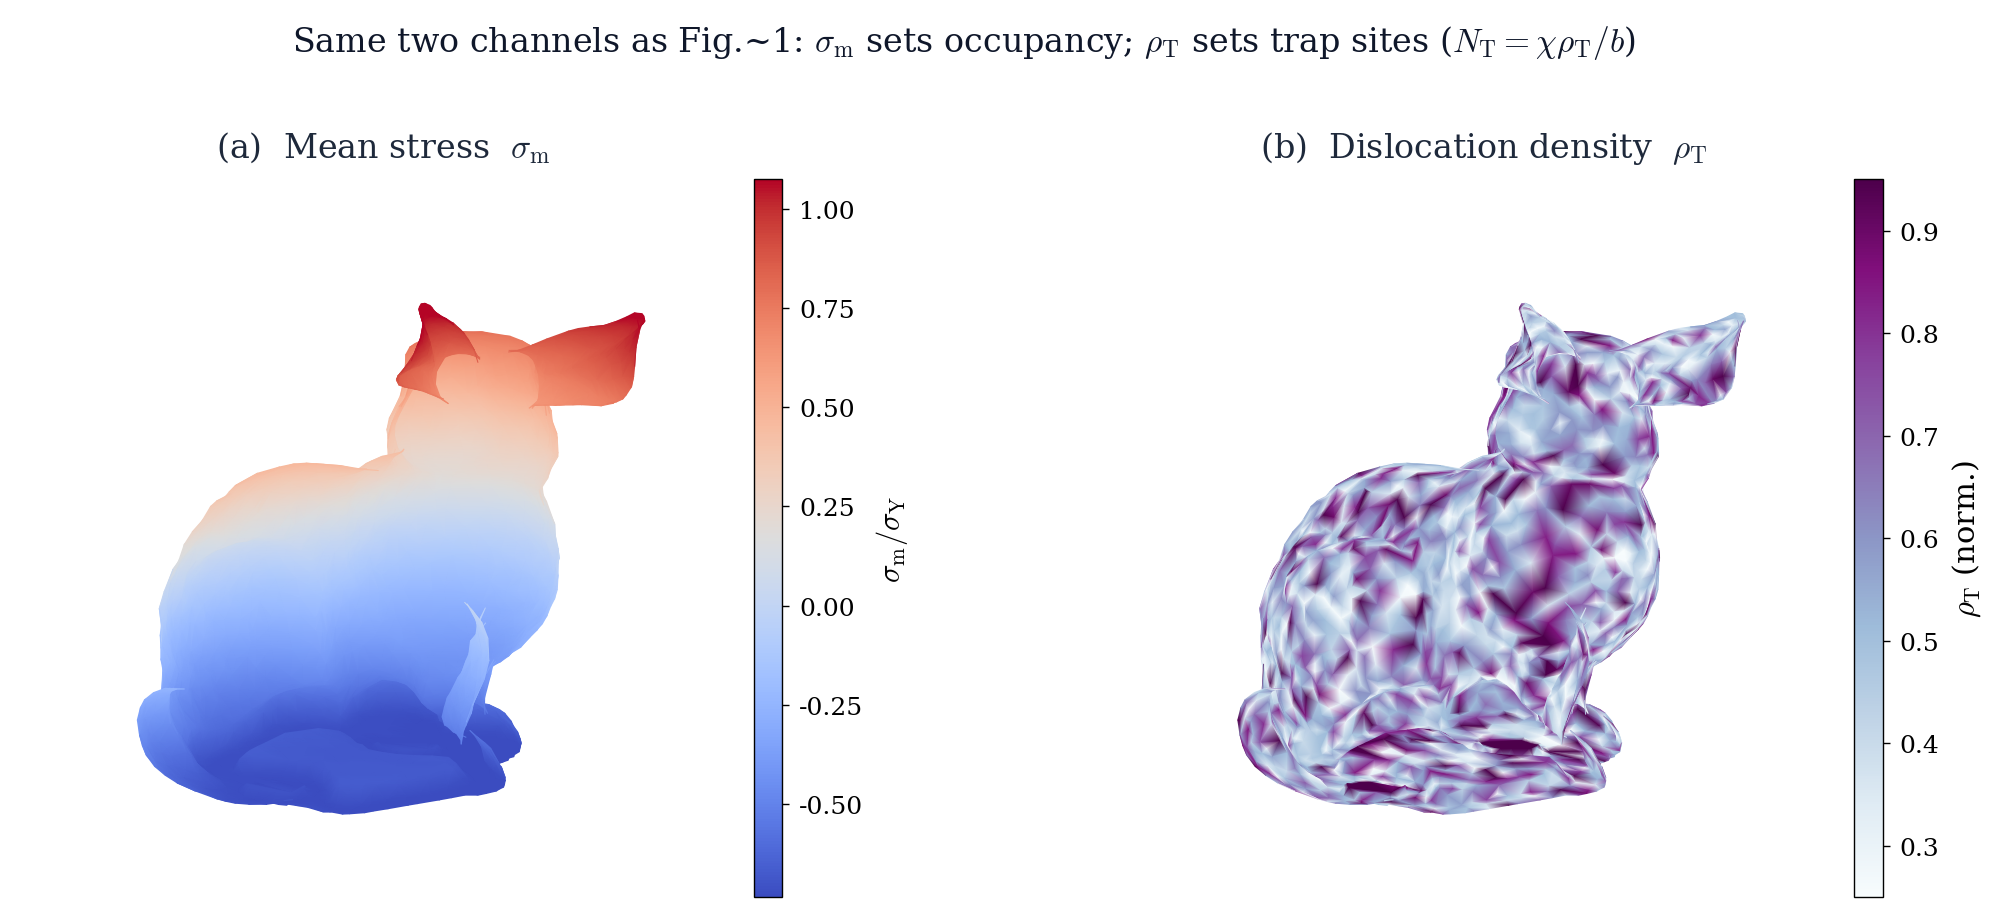
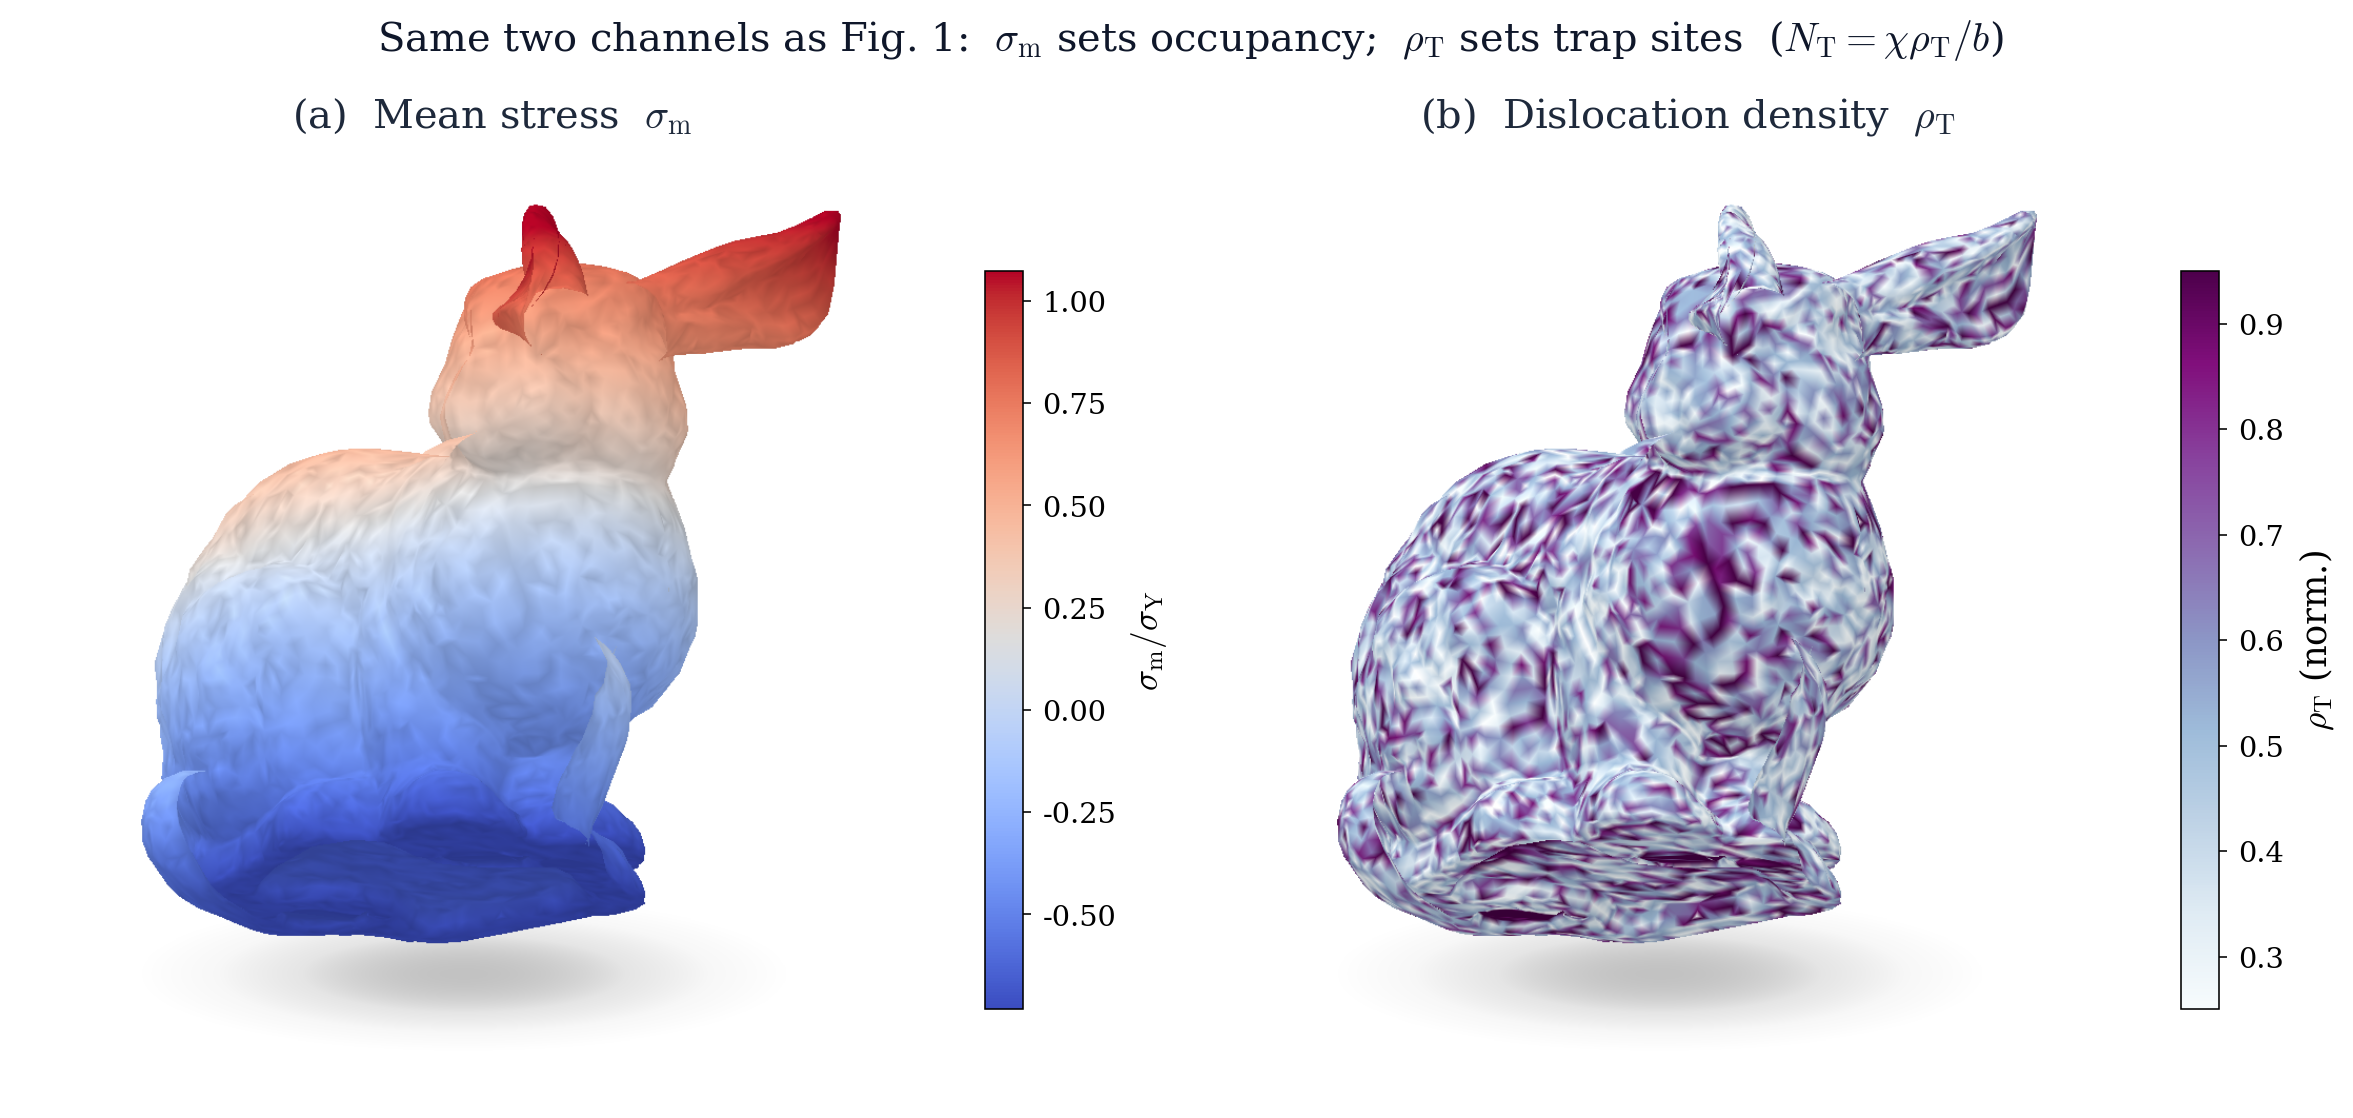
Shade README bunny panels and correct Formulation C trap-density math.

diff --git a/README.md b/README.md
@@ -11,18 +11,21 @@ problems for non-hydrostatic voids and a Mode-I slit with HELP softening.
 This repository is the theory library and the figure factory behind those plots.
 
 <p align="center">
-  <img src="docs/fig1_channels_bunny.png" width="92%" alt="Illustrative sigma_m and rho_T on the Stanford bunny" />
+  <img src="docs/fig1_channels_bunny_lit.png" width="94%" alt="Illustrative sigma_m and rho_T on the Stanford bunny" />
 </p>
 
 <p align="center">
 <em>
 Same two physical channels as Fig.&nbsp;1 of the paper, shown as illustrative
-proxies on the Stanford bunny:
-(a) mean stress $\sigma_{\mathrm{m}}$ (sets lattice / trap occupancy through Oriani);
-(b) dislocation density $\rho_{\mathrm{T}}$ (sets trap-site density via
+proxies on the Stanford bunny:<br/>
+(a)&nbsp;mean stress&nbsp;$\sigma_{\mathrm{m}}$
+(sets lattice / trap occupancy through Oriani);<br/>
+(b)&nbsp;dislocation density&nbsp;$\rho_{\mathrm{T}}$
+(sets trap-site density through
 $N_{\mathrm{T}}=\chi\rho_{\mathrm{T}}/b$).
 </em>
 </p>
+
 ## Overview
 
 MSG plasticity ties the flow stress to statistically stored and geometrically
@@ -30,35 +33,42 @@ necessary dislocations through an intrinsic material length $l$. Matching the
 Taylor model to the uniaxial hardening law gives
 
 $$
-\sigma_e = \sigma_Y\sqrt{f^{2}(\varepsilon_e)+l\,\eta},
+\sigma_e = \sigma_Y \sqrt{f^{2}(\varepsilon_e) + l\,\eta} \,,
 \qquad
-l = 3\alpha^{2}\Bigl(\frac{\mu}{\sigma_Y}\Bigr)^{2}b.
+l = 3\alpha^{2}\left(\frac{\mu}{\sigma_Y}\right)^{2} b \,.
 $$
 
 Because $l$ is built from the same constants that enter the Taylor stress, the
-hydrogen-free dislocation density collapses to
+hydrogen-free dislocation density and trap-site density collapse to
 
 $$
-\rho_T = \frac{f^{2}(\varepsilon_e)+l\,\eta}{l\,b},
+\rho_{\mathrm{T}} = \frac{f^{2}(\varepsilon_e) + l\,\eta}{l\,b} \,,
 \qquad
-N_T = \frac{\chi\rho_T}{b}.
+N_{\mathrm{T}} = \frac{\chi\rho_{\mathrm{T}}}{b}
+= \frac{\chi}{l\,b^{2}}\bigl(f^{2}(\varepsilon_e) + l\,\eta\bigr) \,.
 $$
 
 Under Oriani equilibrium, lattice and trapped occupancies respond to mean stress,
 
 $$
-\theta_L = \theta_L^{0}\exp\!\Bigl(\frac{\sigma_m V_H}{RT}\Bigr),
+\theta_L = \theta_L^{0}
+\exp\!\left(\frac{\sigma_{\mathrm{m}} V_H}{R T}\right) \,,
 \qquad
-\frac{\theta_T}{1-\theta_T}=K_T\frac{\theta_L}{1-\theta_L},
+\frac{\theta_T}{1-\theta_T}
+= K_T \frac{\theta_L}{1-\theta_L} \,,
 \qquad
-K_T=\exp\!\Bigl(\frac{W_B}{RT}\Bigr).
+K_T = \exp\!\left(\frac{W_B}{R T}\right) \,.
 $$
 
 The analytical chapters map this closure onto thin-wire torsion, ultra-thin
 bending, and spherical void growth (size-dependent trap uptake). A finite-strain
 cavitation analysis adds HELP softening
-$\sigma_e^{\mathrm{HELP}}=(1-\xi\theta_T)\sigma_e^{(0)}$. The FEM panels reuse
-the same constitutive ideas on meshes.
+
+$$
+\sigma_e^{\mathrm{HELP}} = (1 - \xi\,\theta_T)\,\sigma_e^{(0)} \,.
+$$
+
+The FEM panels reuse the same constitutive ideas on meshes.
 
 ## Repository layout
 
@@ -127,10 +137,10 @@ Q = torsion_Q(a=1e-6, Gamma=0.05, p=p)
 
 | Quantity | Choice |
 |----------|--------|
-| MSG length $l$ | $\mu_{\mathrm{ref}}/\sigma_Y=200$ (Huang et al.) |
-| FEM elasticity | $E/\sigma_Y=500$, $\nu\approx\tfrac12$ (near-incompressible) |
-| Trap density $N_T$ | Hydrogen-free Taylor density $f^{2}+l\eta$ |
-| HELP | Multiplies flow stress by $(1-\xi\theta_T)$ |
+| MSG length $l$ | $\mu_{\mathrm{ref}}/\sigma_Y = 200$ (Huang et al.) |
+| FEM elasticity | $E/\sigma_Y = 500$, $\nu \approx 1/2$ (near-incompressible) |
+| Trap density $N_{\mathrm{T}}$ | $N_{\mathrm{T}}=\chi\rho_{\mathrm{T}}/b$ with hydrogen-free $\rho_{\mathrm{T}}=[f^{2}+l\eta]/(lb)$ |
+| HELP | Multiplies flow stress by $(1 - \xi\theta_T)$; Formulation C keeps $\rho_{\mathrm{T}}$ hydrogen-free |
 
 ## Requirements
 
